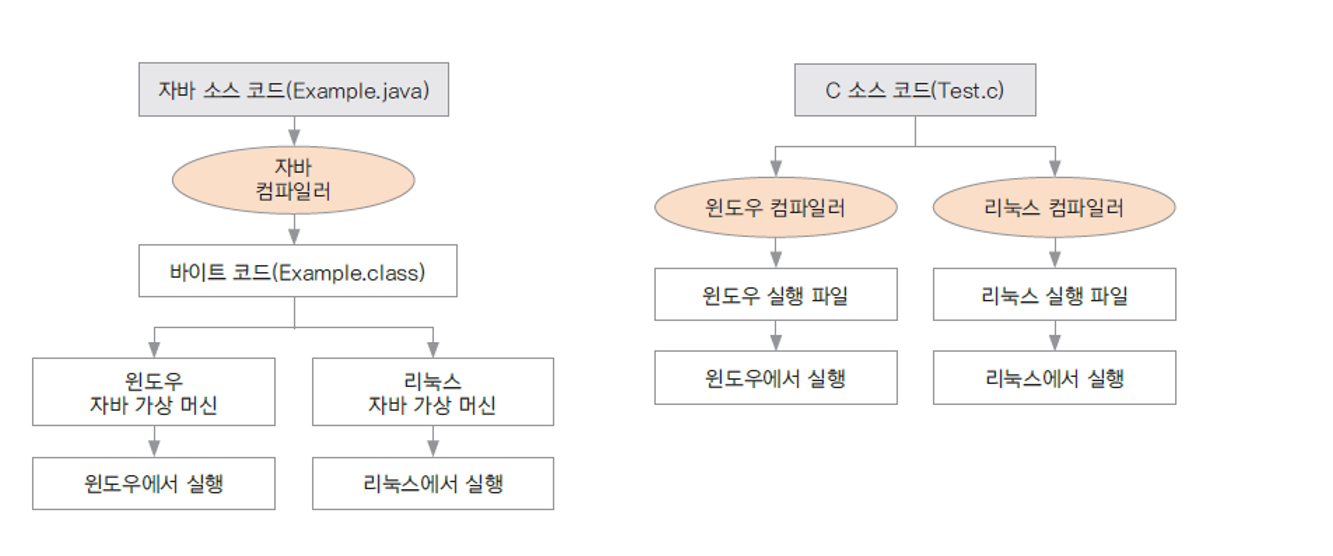
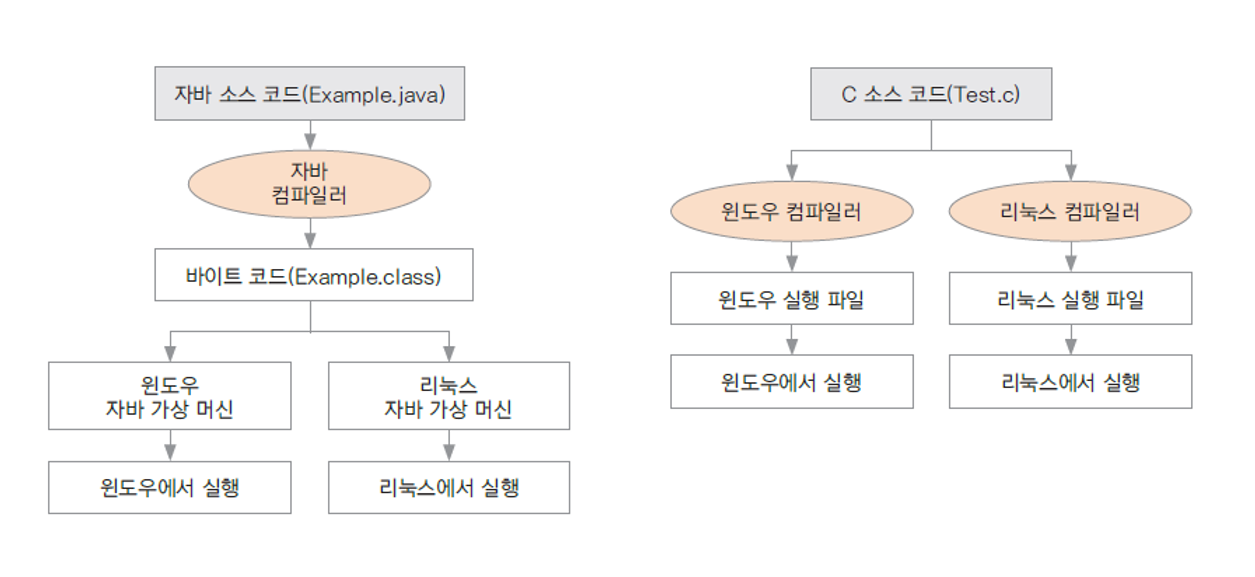
이미지 사이즈

diff --git a/java/Java 기초 - 특징, 프로그램, 용어.md b/java/Java 기초 - 특징, 프로그램, 용어.md
@@ -8,7 +8,7 @@
 
    OS에 따라 각각 컴파일을 해줘야하는 다른 언어들과 달리 Java는 컴파일러가 중간 기계어인 바이트코드(`.class`)를 만들고, 이 바이트코드는 가상머신(`jvm`) 상에서 OS와 상관없이 실행되기 때문에 이식성이 높다. 
 
-   <img src="../image/java1.PNG" alt="java다른언어와차이점" style="width: 150%;" />
+   ![java1](../image/java1.PNG)
 
    `컴파일`이란?
 
